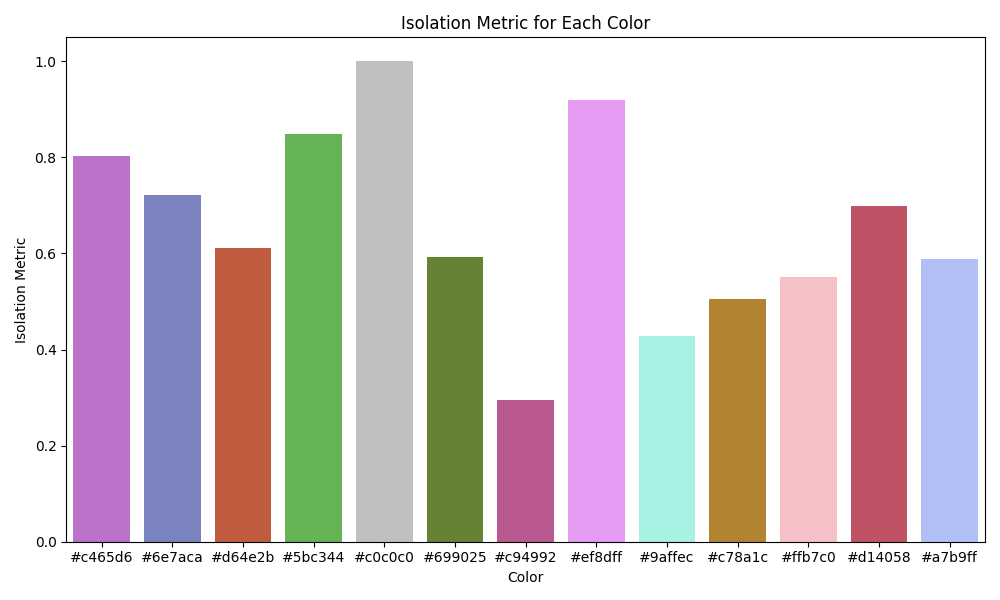
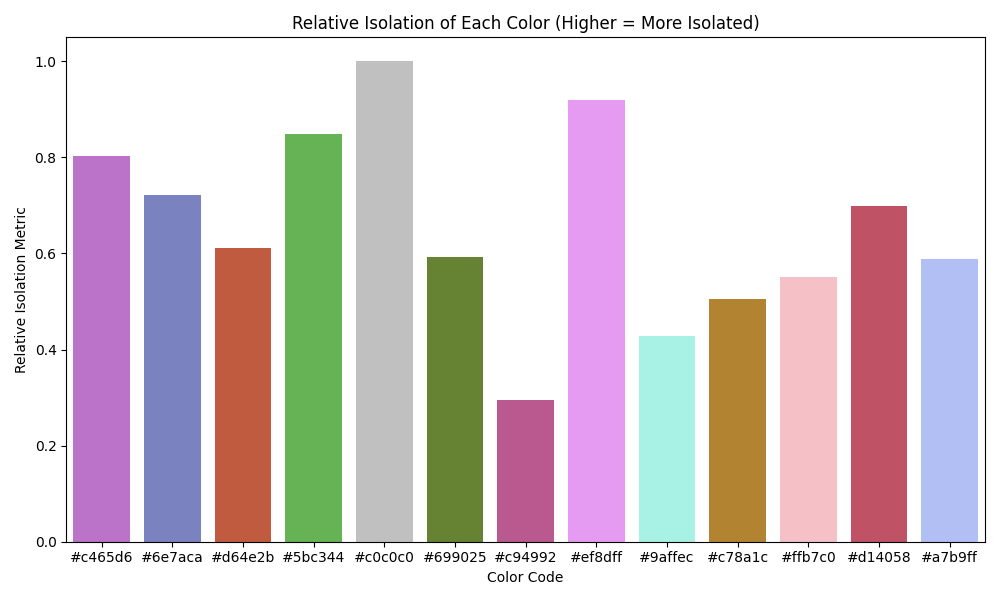
updated title of isolation metric per color

Changed region(s): [[0.279, 0.03, 0.775, 0.06], [0.0, 0.36, 0.031, 0.63], [0.496, 0.93, 0.558, 0.99]]

diff --git a/gen_modularity_data.py b/gen_modularity_data.py
@@ -286,9 +286,9 @@ def gen_color_to_isolation_metric_data(
 
     plt.figure(figsize=(10, 6))
     sns.barplot(x=colors, y=isolation_metrics, palette=colors)
-    plt.xlabel("Color")
-    plt.ylabel("Isolation Metric")
-    plt.title("Isolation Metric for Each Color")
+    plt.xlabel("Color Code")
+    plt.ylabel("Relative Isolation Metric")
+    plt.title("Relative Isolation of Each Color (Higher = More Isolated)")
     plt.tight_layout()
     plt.savefig(color_to_isolation_metric_plot_filepath)
     plt.close()
